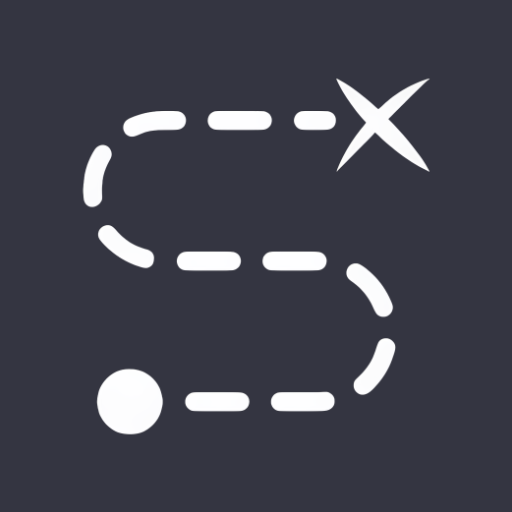
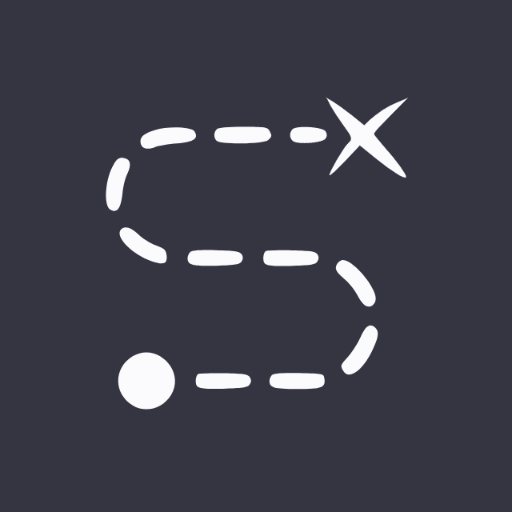
cool splash

diff --git a/lib/main.dart b/lib/main.dart
@@ -33,7 +33,7 @@ class _SplashScreenState extends State<SplashScreen> {
   void initState() {
     super.initState();
     Timer(
-      const Duration(microseconds: 2200000),
+      const Duration(microseconds: 4200000),
       () => Navigator.pushReplacement(
         context,
         MaterialPageRoute(
@@ -47,7 +47,7 @@ class _SplashScreenState extends State<SplashScreen> {
   Widget build(BuildContext context) {
     return ColoredBox(
       color: theme[0],
-      child: Image.asset("assets/cc.gif"),
+      child: Image.asset("assets/logoanim.gif"),
     );
   }
 }
